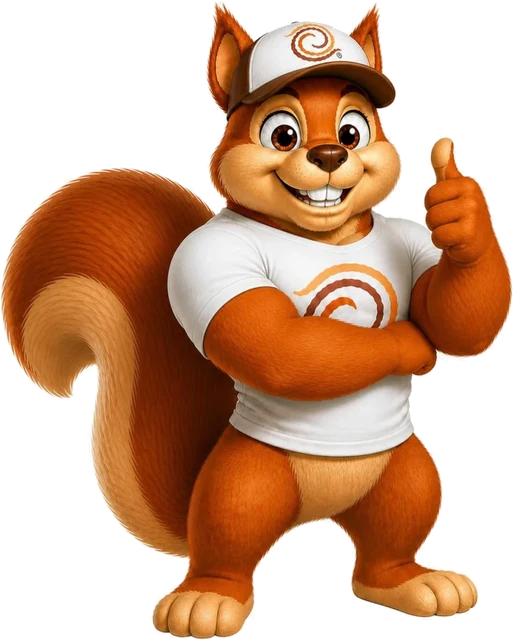
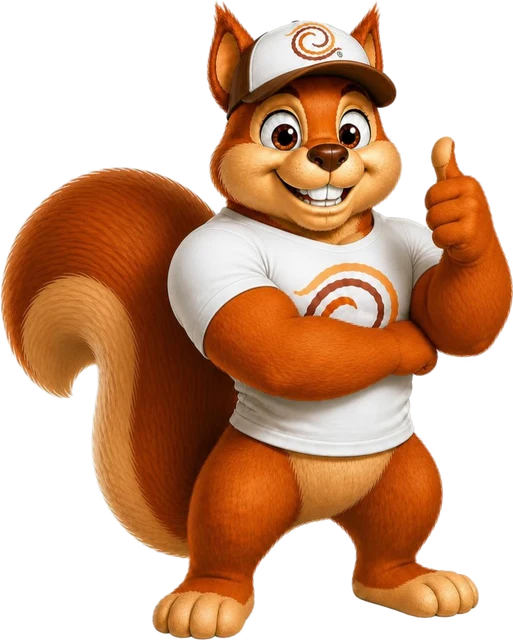
Mascots cut out again from Xander's PNG originals
The uploaded PNGs carry the grey checkerboard in the pixels (no real
alpha), so the background is still removed here, now from the lossless
originals and with cleaner edges: background pockets between fur strands
are removed and faint edge pixels take the colour of the fur next to them.
The third pose (open arms) replaces the old mascot in the 'Even
meedenken?' box. The raw uploads are dropped from the repository root.

Claude-Session: https://claude.ai/code/session_01Yb5Su8Xf7j8vpQzCA2QRvM

diff --git a/src/app/page.tsx b/src/app/page.tsx
@@ -254,7 +254,7 @@ export default function HomePage() {
             <Image
               src="/mascotte-zwaai.webp"
               alt="De Natuurhout-eekhoorn zwaait"
-              width={499}
+              width={496}
               height={640}
               className="absolute bottom-full right-5 h-[112px] w-auto"
             />
@@ -463,16 +463,15 @@ export default function HomePage() {
               </p>
             </div>
 
-            {/* Mascot sits on white, matching its own background */}
             <aside className="lg:pt-2">
               <div className="rounded-card border border-line bg-white p-6">
                 <div className="flex items-center gap-4">
                   <Image
-                    src="/mascotte-natuurhout.webp"
-                    alt="De mascotte van Natuurhout, een eekhoorn met pet"
-                    width={96}
-                    height={96}
-                    className="h-20 w-20 shrink-0 object-contain"
+                    src="/mascotte-welkom.webp"
+                    alt="De Natuurhout-eekhoorn heet u welkom"
+                    width={551}
+                    height={640}
+                    className="h-24 w-auto shrink-0"
                   />
                   <div>
                     <p className="font-display text-lg font-semibold leading-tight">
